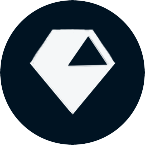
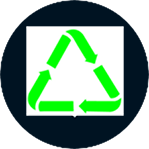
源代码逻辑梳理完成，当前缺少的是对每种品类垃圾下垃圾的管理

diff --git a/js/states/StartState.js b/js/states/StartState.js
@@ -89,14 +89,14 @@ Tacit.StartState.prototype.create = function () {
   // 左侧部分
   var leftDash = game.add.image(0, 138, 'dash');
   this.leftBtn1 = new Tacit.MissionButton(this, {x: 20+145/2, y: 230+145/2}, 'button_black', this.clickButton, {'side': 'left', 'index': 0, 'game': this, 'btn': 'leftBtn1'}, 'button', {keyCode: Phaser.KeyCode.Q});
-  this.leftBtn2 = new Tacit.MissionButton(this, {x: 60+145/2, y: 480+145/2}, 'button_red', this.clickButton, {'side': 'left', 'index': 2, 'game': this, 'btn': 'leftBtn2'}, 'button', {keyCode: Phaser.KeyCode.A});
+  //this.leftBtn2 = new Tacit.MissionButton(this, {x: 60+145/2, y: 480+145/2}, 'button_red', this.clickButton, {'side': 'left', 'index': 2, 'game': this, 'btn': 'leftBtn2'}, 'button', {keyCode: Phaser.KeyCode.A});
   this.leftBtn3 = new Tacit.MissionButton(this, {x: 20+145/2, y: 730+145/2}, 'button_yellow', this.clickButton, {'side': 'left', 'index': 4, 'game': this, 'btn': 'leftBtn3'}, 'button', {keyCode: Phaser.KeyCode.Z});
   this.leftScore = game.add.bitmapText(20, 10, 'TacitNum', game.leftScore + "", 64);
 
   this.leftPart = game.add.sprite(0, 0);
   this.leftPart.addChild(leftDash);
   this.leftPart.addChild(this.leftBtn1);
-  this.leftPart.addChild(this.leftBtn2);
+  //this.leftPart.addChild(this.leftBtn2);
   this.leftPart.addChild(this.leftBtn3);
   this.leftAll = game.add.sprite(0, 0);
   this.leftAll.addChild(this.leftPart)
@@ -109,7 +109,7 @@ Tacit.StartState.prototype.create = function () {
   var rightDash = game.add.image(1920, 138, 'dash');
   rightDash.scale.x = -1;
   this.rightBtn1 = new Tacit.MissionButton(this, {x: 1770-20+145/2, y: 230+145/2}, 'button_blue', this.clickButton, {'side': 'right', 'index': 1, 'game': this, 'btn': 'rightBtn1'}, 'button', {keyCode: Phaser.KeyCode.O});
-  this.rightBtn2 = new Tacit.MissionButton(this, {x: 1770-60+145/2, y: 480+145/2}, 'button_red', this.clickButton, {'side': 'right', 'index': 2, 'game': this, 'btn': 'rightBtn2'}, 'button', {keyCode: Phaser.KeyCode.K});
+  //this.rightBtn2 = new Tacit.MissionButton(this, {x: 1770-60+145/2, y: 480+145/2}, 'button_red', this.clickButton, {'side': 'right', 'index': 2, 'game': this, 'btn': 'rightBtn2'}, 'button', {keyCode: Phaser.KeyCode.K});
   this.rightBtn3 = new Tacit.MissionButton(this, {x: 1770-20+145/2, y: 730+145/2}, 'button_green', this.clickButton,{'side': 'right', 'index': 3, 'game': this, 'btn': 'rightBtn3'}, 'button', {keyCode: Phaser.KeyCode.M});
   this.rightScore = game.add.bitmapText(0, 10, 'TacitNum', game.rightScore + "", 64);
   this.rightScore.x = 1920 - this.rightScore.width - 20;
@@ -117,7 +117,7 @@ Tacit.StartState.prototype.create = function () {
   this.rightPart = game.add.sprite(0, 0);
   this.rightPart.addChild(rightDash);
   this.rightPart.addChild(this.rightBtn1);
-  this.rightPart.addChild(this.rightBtn2);
+  //this.rightPart.addChild(this.rightBtn2);
   this.rightPart.addChild(this.rightBtn3);
   this.rightAll = game.add.sprite(0, 0);
   this.rightAll.addChild(this.rightPart);
@@ -155,6 +155,8 @@ Tacit.StartState.prototype.clickButton = function() {
   var missions = this.game.missions;
   var curLine = this.game.curLine;
   var btn = this.game[this.btn];
+
+  //debugger;
 
   var correct = false;
   if(!missions[curLine]){return;}
@@ -210,6 +212,7 @@ Tacit.StartState.prototype.loadLevel = function(level) {
   var spriteTween = game.add.tween(this.groups["mission"]).to( { y: 0 }, 500, Phaser.Easing.Bounce.Out, true);
   spriteTween.onComplete.add(function() {
 
+    //debugger;
     this.pointerManager.showPointer();
 
     if(level == 0) {
@@ -220,6 +223,7 @@ Tacit.StartState.prototype.loadLevel = function(level) {
 
     this.timeCount = 0;
     this.timer = game.time.events.loop(Phaser.Timer.SECOND * 0.1 / TIME_RATIO, function() {
+      //console.log('i am the loop');
       if(this.timeCount < this.LevelTime) {
         this.timeCount++;
         this.timeCircle.setTime(this.timeCount);

diff --git a/js/managers/LevelManager.js b/js/managers/LevelManager.js
@@ -22,6 +22,8 @@ Tacit.LevelManager.prototype.loadLevel = function(level) {
   this.gameState.missions.splice(0, this.gameState.missions.length);
   this.itemCount = 0;
 
+  //debugger;
+
   // 解析关卡数据
   for(var i=0; i<curLevelArr.length; i++) {
     var line = curLevelArr[i];
@@ -39,10 +41,13 @@ Tacit.LevelManager.prototype.loadLevel = function(level) {
         if(mission) {
           mission.changeMission(position, MissionMap[item[0]], item[0]);
         } else {
+          // 生成对应的垃圾图标，位于icon文件夹
           mission = new Tacit.Mission(this.gameState, position, MissionMap[item[0]], 'mission', {
             index: item[0]
           });
         }
+
+        // 如果想要显示对应垃圾内容的名称，此处应该放入对应的name属性。
         var missionObj = {
           index: item[0],
           sprite: mission

diff --git a/js/global.js b/js/global.js
@@ -6,7 +6,7 @@ var TIME_RATIO = 5;   // 时间比，此数越大，时间越多
 var TOTAL_BLOOD = 60*TIME_RATIO;  // 总血量
 var LEVEL_TIME_RATIO = 8*TIME_RATIO;  // 每局时间
 
-// 每一个index对应的图片
+// 每一个index对应的图片, 此处应该随机出一个品类下的某个商品
 var MissionMap = {
   0: 'missonicon_black',
   1: 'missonicon_blue',

diff --git a/js/objects/MissionButton.js b/js/objects/MissionButton.js
@@ -11,6 +11,9 @@ Tacit.MissionButton = function(gameState, position, texture, callback, context, 
     this.gameState.groups[group].add(this);
   }
   this.anchor.setTo(0.5, 0.5);
+
+  this.scaleMax = 5;
+  this.scaleMin = 3;
   var key = game.input.keyboard.addKey(properties.keyCode);
   key.onDown.add(this.clicked, this);
 };
